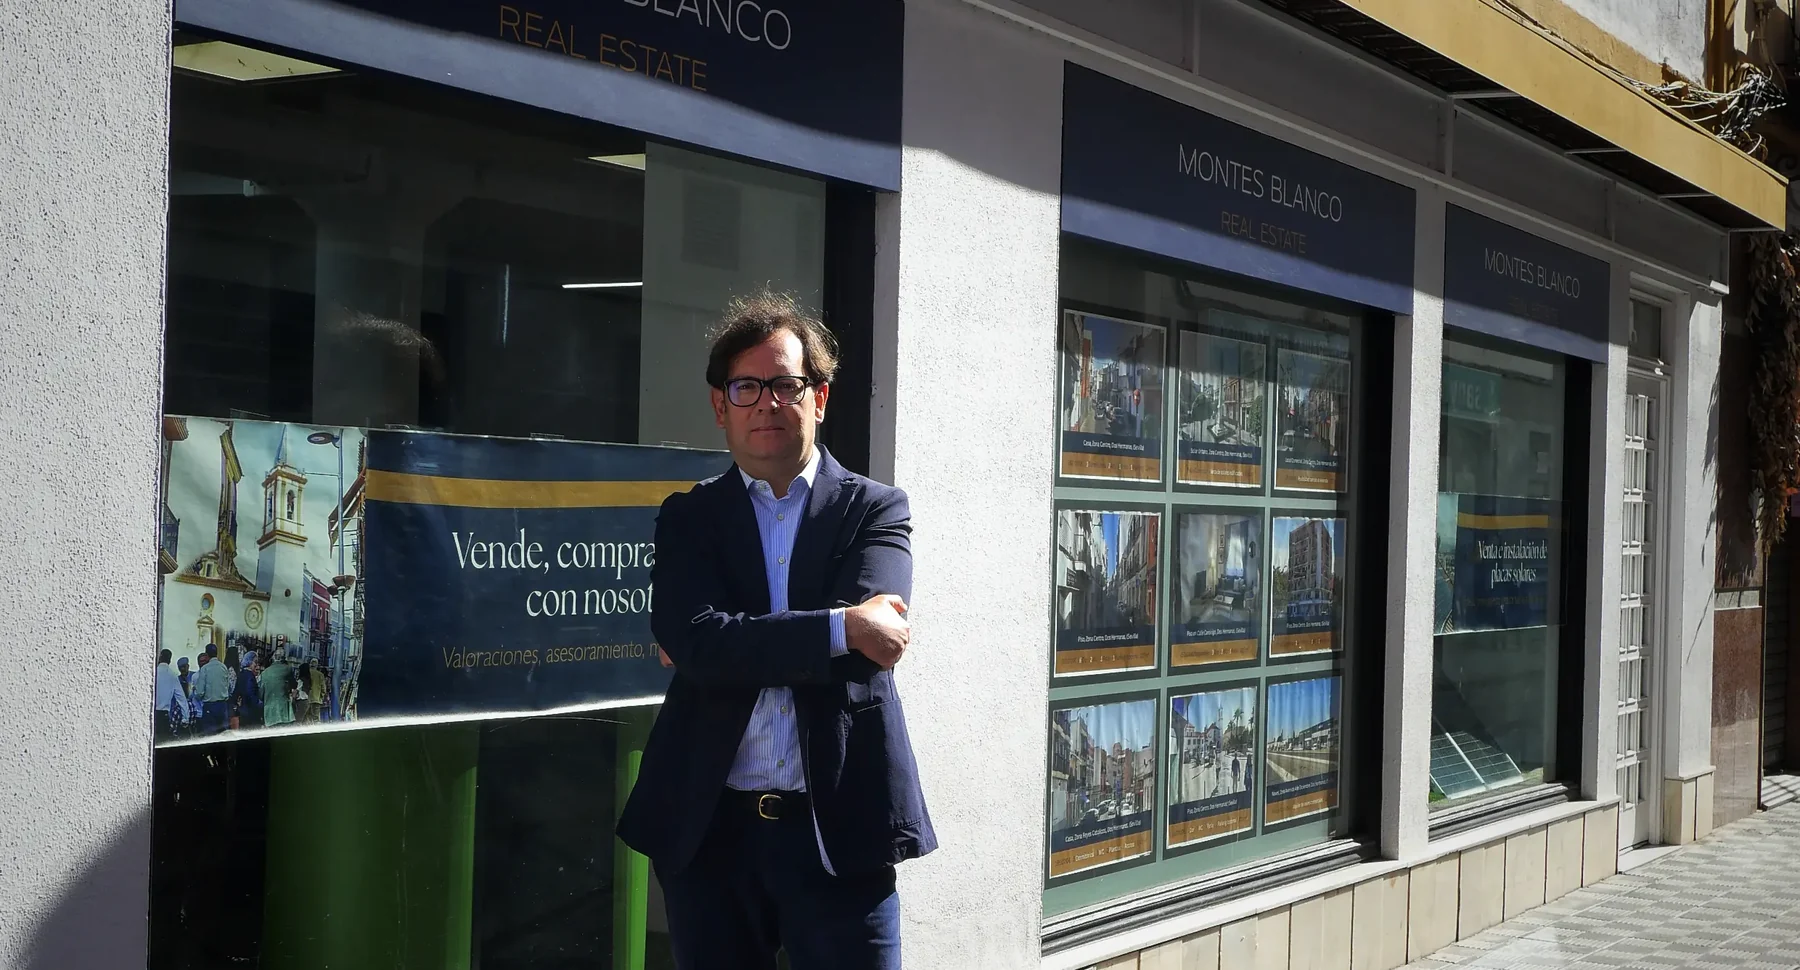
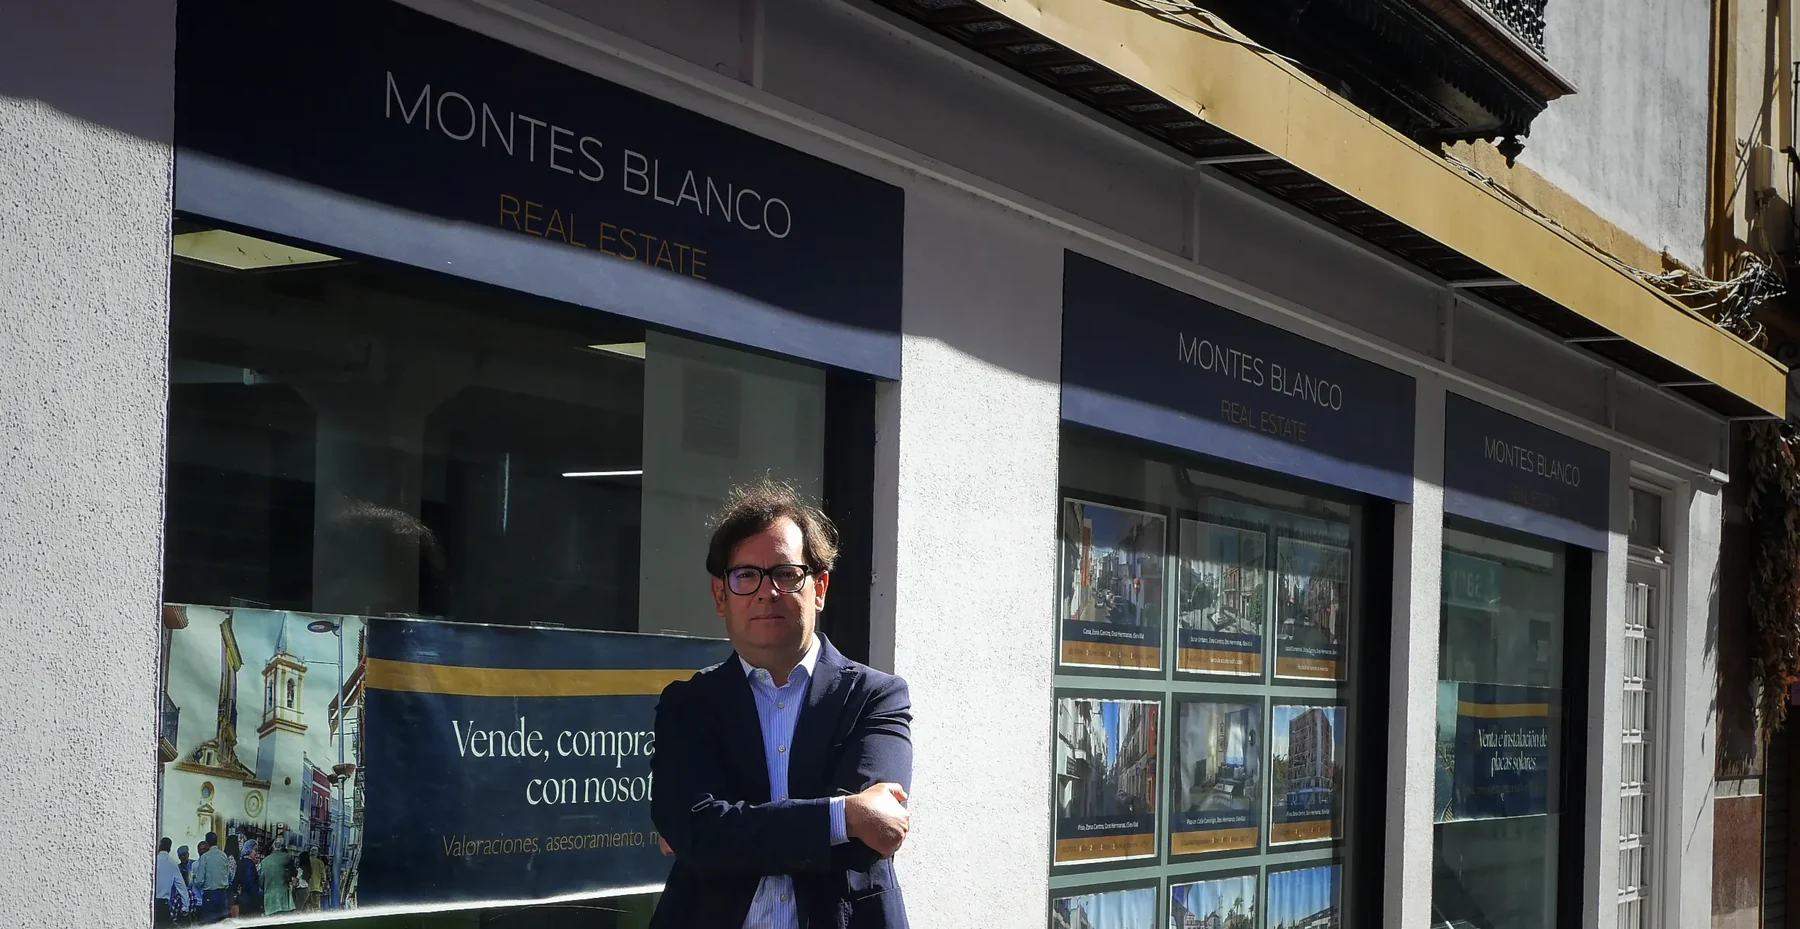
style(hero): aleja encuadre para mostrar cartel superior de la inmobiliaria

diff --git a/css/styles.css b/css/styles.css
@@ -495,7 +495,7 @@ font[style*="vertical-align"] {
    video. Sólo aparece (fade-in) cuando el video termina */
 .hero__media .hero__img-fallback {
   opacity: 0;
-  object-position: center 28%;
+  object-position: center 42%;
   transition: opacity 2.5s ease-in-out;
   animation: heroZoom 22s ease-in-out infinite alternate;
 }
